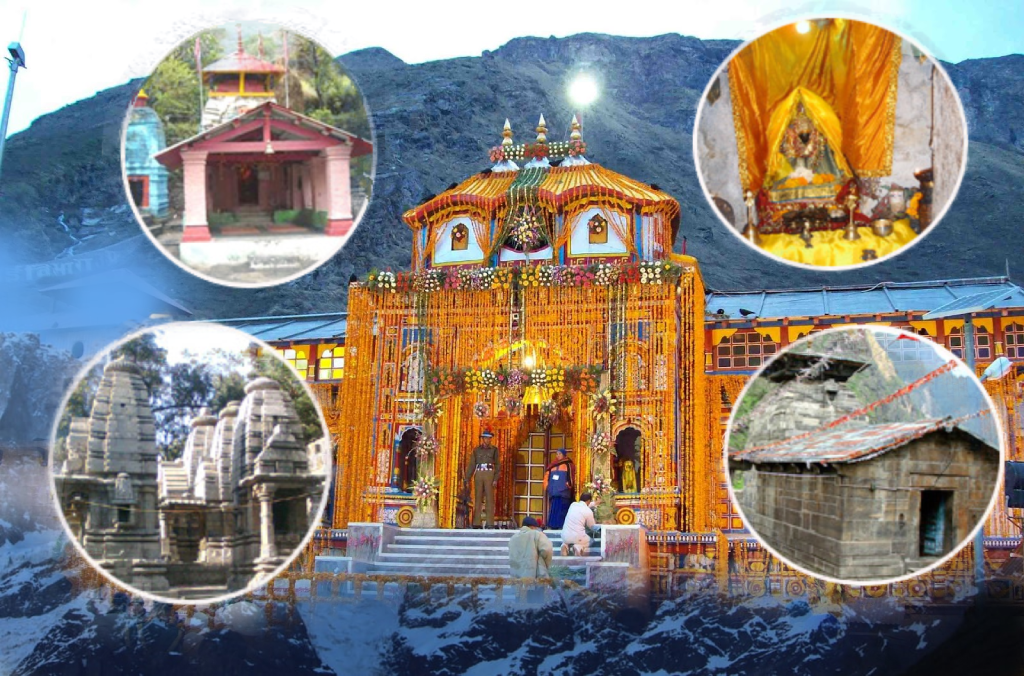
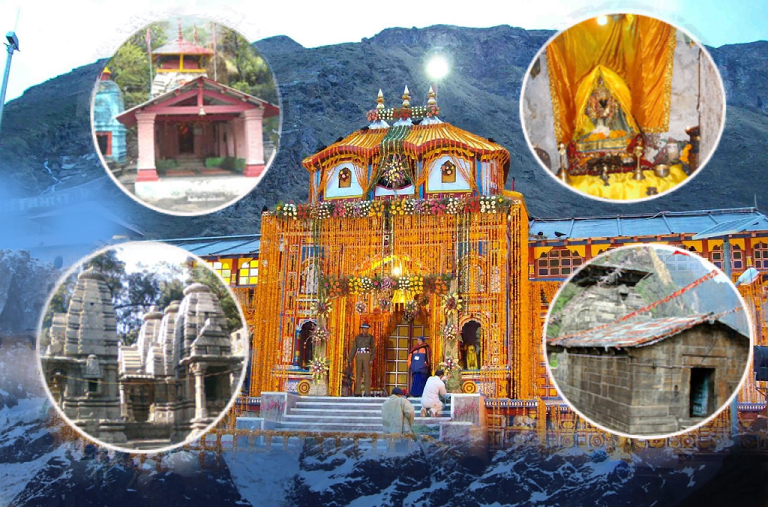
Updated images and resized them

diff --git a/src/components/ui-components/AppDestinationItem.vue b/src/components/ui-components/AppDestinationItem.vue
@@ -5,7 +5,7 @@
         <img
           class="image"
           :class="toggleClass"
-          src="../../assets/images/destinations/nainital.webp"
+          src="../../assets/images/destinations/NainitalTile.png"
           alt="destination"
         />
       </div>
@@ -30,7 +30,7 @@
         <img
           class="image"
           :class="toggleClass"
-          src="../../assets/images/destinations/nainital.webp"
+          src="../../assets/images/destinations/NainitalTile.png"
           alt="destination"
         />
       </div>

diff --git a/src/components/ui-components/PackageDetail.vue b/src/components/ui-components/PackageDetail.vue
@@ -140,8 +140,7 @@
             </div>
           </b-tab-item>
           <b-tab-item label="GALLERY">
-            <div class="image-container">
-              <!-- <img class="image" src="../../assets/images/destinations/nainital.webp" alt="destination" /> -->
+            <div class="image-container">             
               <b-carousel
                 :autoplay="false"
                 with-carousel-list

diff --git a/src/components/ui-components/AppPreviewCard.vue b/src/components/ui-components/AppPreviewCard.vue
@@ -71,8 +71,7 @@ export default {
       // const fileName = this.item.image.name.toLowerCase();
       // const ext = this.item.image.ext;
 
-      // return require(`../../assets/images/${type}/${fileName}.${ext}`);
-      //return require("../../assets/images/destinations/nainital.webp");
+      // return require(`../../assets/images/${type}/${fileName}.${ext}`);      
     },
   },
   methods: {

diff --git a/src/components/ui-components/TourDestinationDetail.vue b/src/components/ui-components/TourDestinationDetail.vue
@@ -135,8 +135,7 @@
           </b-tab-item>
 
           <b-tab-item label="GALLERY">
-            <div class="image-container">
-              <!-- <img class="image" src="../../assets/images/destinations/nainital.webp" alt="destination" /> -->
+            <div class="image-container">              
               <b-carousel
                 :autoplay="false"
                 with-carousel-list

diff --git a/src/views/Destination/Destinations.vue b/src/views/Destination/Destinations.vue
@@ -61,7 +61,7 @@ export default {
 
 <style lang="scss">
 .destinations {
-  background-image: url("../../assets/images/DeoriyaTal.jpg");
+  background-image: url("../../assets/images/DeoriyaTal.png");
   background-size: cover;
   background-blend-mode: overlay;
   background-color: #363636;
